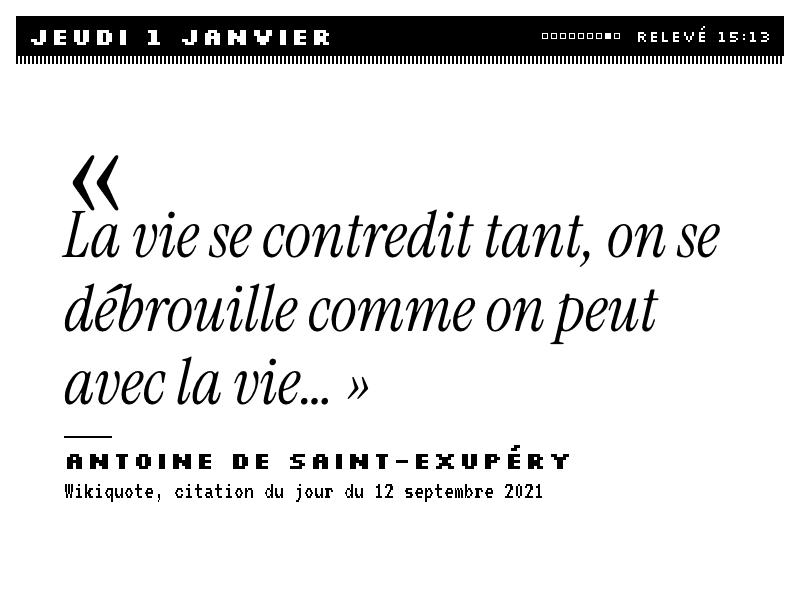
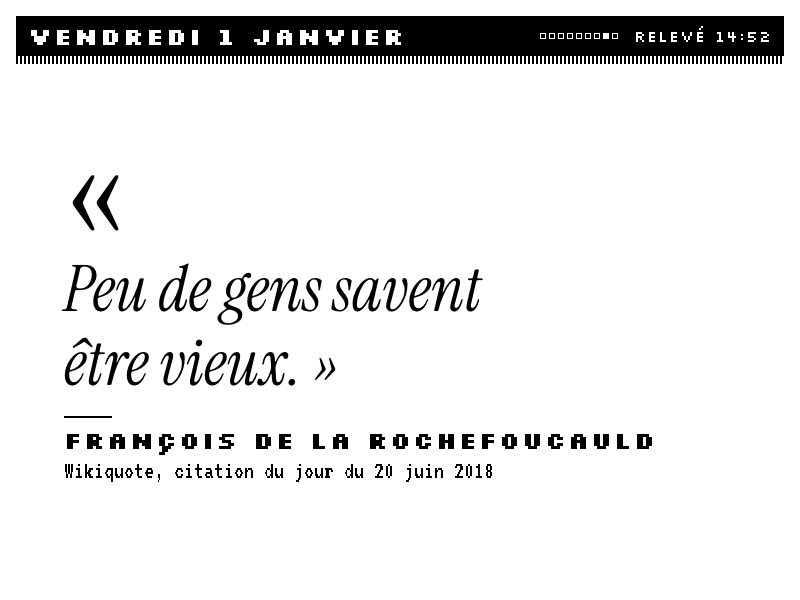
README à la première personne ; guillemets de la citation

diff --git a/gabarit.html b/gabarit.html
@@ -111,8 +111,8 @@ svg.px { shape-rendering: crispEdges; display: block; flex: none; }
 .citation { flex: 1; display: flex; flex-direction: column; justify-content: center; -webkit-font-smoothing: antialiased; }
 .plein .citation { padding: 0 48px 24px; }
 .citation .ouvrant { font-family: 'Instrument Serif'; font-size: 120px; line-height: 60px; height: 52px; }
-.plein .citation .ouvrant { font-size: 160px; line-height: 80px; height: 70px; }
-.citation blockquote { font-family: 'Instrument Serif'; font-style: italic; line-height: 1.15; }
+.plein .citation .ouvrant { font-size: 160px; line-height: 80px; height: 104px; }
+.citation blockquote { font-family: 'Instrument Serif'; font-style: italic; line-height: 1.15; text-wrap: balance; }
 .citation .filet { width: 48px; border-top: 2px solid var(--encre); margin: 16px 0 10px; }
 .citation .source { margin-top: 6px; -webkit-font-smoothing: {{LISSAGE}}; }
 .citation cite { font-style: normal; -webkit-font-smoothing: {{LISSAGE}}; }

diff --git a/dashboard.py b/dashboard.py
@@ -600,7 +600,7 @@ def ecran_citation(maintenant, q):
     n = len(q["texte"])
     taille = 64 if n <= 80 else 52 if n <= 150 else 44
     return (f'<section class="citation"><div class="ouvrant">«</div>'
-            f'<blockquote style="font-size:{taille}px">{esc(q["texte"])} »</blockquote>'
+            f'<blockquote style="font-size:{taille}px">{esc(q["texte"])}&nbsp;»</blockquote>'
             f'<div class="filet"></div><cite class="s24 gras">{esc(q["auteur"].upper())}</cite>'
             f'<div class="source">Wikiquote, citation du jour du {esc(q["jour"])}</div></section>')
 

diff --git a/RECHERCHE-DESIGN.md b/RECHERCHE-DESIGN.md
@@ -40,7 +40,7 @@ Captures téléchargées et regardées une à une ; le jugement porte sur l'imag
 | [matopeto/kindle-weather-dashboard](https://github.com/matopeto/kindle-weather-dashboard) (Kindle 4) | 273 / 01/01/2026 | [Kindle 4](https://raw.githubusercontent.com/matopeto/kindle-weather-dashboard/master/screenshot_kindle4.gif) | 600 × 800 : icône géante et chiffre géant, 4 créneaux en dessous. Se lit de loin, mais l'icône mange un tiers de l'écran pour rien. |
 | [sibbl/hass-lovelace-kindle-screensaver](https://github.com/sibbl/hass-lovelace-kindle-screensaver) | 658 / 01/01/2026 | [sample](https://raw.githubusercontent.com/sibbl/hass-lovelace-kindle-screensaver/main/assets/sample.png) | Courbes avec aplat gris clair : les gris clairs rendent bien **en grande surface** ; les libellés gris fins, eux, s'effacent. |
 | [fberrez/quietdash.com](https://github.com/fberrez/quietdash.com) | 87 / 01/01/2026 | [dashboard](https://raw.githubusercontent.com/fberrez/quietdash.com/main/docs/screenshots/dashboard.png) | « Calm » : heure pixel géante, grille de filets noirs, très peu de chiffres. Mélange police pixel (chiffres) et grotesque (texte), l'équivalent de notre VT323 + Silkscreen. |
-| [kimmobrunfeldt/eink-weather-display](https://github.com/kimmobrunfeldt/eink-weather-display) | 339 / 01/01/2023 | [photo réelle](https://raw.githubusercontent.com/kimmobrunfeldt/eink-weather-display/main/docs/closeup.jpg) | Même chaîne que ce projet (HTML + Chrome headless → PNG). La photo montre que les tuiles grises sous les icônes éteignent le contraste et que les trois lignes de texte sous chaque heure sont illisibles à un mètre. |
+| [kimmobrunfeldt/eink-weather-display](https://github.com/kimmobrunfeldt/eink-weather-display) | 339 / 01/01/2023 | [photo réelle](https://raw.githubusercontent.com/kimmobrunfeldt/eink-weather-display/main/docs/closeup.jpg) | Même chaîne que la mienne (HTML + Chrome headless → PNG). La photo montre que les tuiles grises sous les icônes éteignent le contraste et que les trois lignes de texte sous chaque heure sont illisibles à un mètre. |
 | [mendhak/waveshare-epaper-display](https://github.com/mendhak/waveshare-epaper-display) | 531 / 01/01/2026 | [photo](https://raw.githubusercontent.com/mendhak/waveshare-epaper-display/master/screenshots/display.png) | Heure géante, date, filet vertical, liste d'événements en gras : sur photo, les grosses lettres noires se lisent de loin. Simple et efficace. |
 | [chrisjtwomey/inkplate10-weather-cal](https://github.com/chrisjtwomey/inkplate10-weather-cal) | 129 / 01/01/2026 | [today_dublin](https://raw.githubusercontent.com/chrisjtwomey/inkplate10-weather-cal/main/doc/assets/today_dublin.png) | Carte de la ville en gris clair en fond, fondu en dégradé : très éditorial. Sur 16 gris sans tramage, ce dégradé fera des bandes **[S]**. |
 | [alexishida/kindle-dashboard](https://github.com/alexishida/kindle-dashboard) | 304 / 01/01/2026 | [painel](https://raw.githubusercontent.com/alexishida/kindle-dashboard/main/screenshot/painel.jpg) | Barres de progression noires pleines dans des cadres : lisible, style formulaire. |

diff --git a/AGENTS.md b/AGENTS.md
@@ -6,5 +6,5 @@ Le dépôt peut être confié à un assistant de code (Claude Code, Codex, Curso
 2. **Le jailbreak se fait à la main**, par la personne, en suivant la source officielle (kindlemodding.org). Relire tout script avant de le copier sur la liseuse ; vérifier le sha256 des archives. Ne jamais réinitialiser un Paperwhite 1.
 3. **Rien de personnel dans git** : lieu, agendas, stations et identifiants Notion vont dans `config.json`, les clés dans `.env`, tous deux exclus par `.gitignore`. Ne jamais afficher la valeur d'une clé.
 4. **Voir avant de brancher** : `python3 demo.py`, puis regarder les PNG de `demo/`.
-5. **Scripts de la liseuse** : BusyBox 1.7.2 sur le Kindle 4 (limites dans le README, « Ce qu'on a appris »). Tout script modifié passe par `python3 publier.py` (contrôle `dash -n`) ; ne jamais remplacer `noyau.sh` à distance : c'est lui qui remet la version précédente si une mise à jour casse.
+5. **Scripts de la liseuse** : BusyBox 1.7.2 sur le Kindle 4 (limites dans le README, « Ce que j'ai appris »). Tout script modifié passe par `python3 publier.py` (contrôle `dash -n`) ; ne jamais remplacer `noyau.sh` à distance : c'est lui qui remet la version précédente si une mise à jour casse.
 6. **Fini** = `python3 verifier.py` rend le code 0 et l'écran de la liseuse change tout seul.
